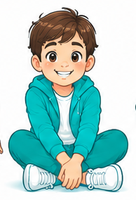
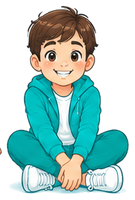
0311z: задание 6 — у человечков убран белый фон (футболка и кроссовки сохранены), карточки в три ряда по четыре и крупнее, название больше не обрезается

diff --git a/task06.css b/task06.css
@@ -32,11 +32,11 @@
 #t6 .t6-slot.filled{border-style:solid;border-color:rgba(48,229,220,.5);background:#14292f;cursor:pointer}
 #t6 .t6-slot.picked{border-color:#30e5dc;box-shadow:0 0 0 2px rgba(48,229,220,.45) inset}
 #t6 .t6-slot .t6-del{position:absolute;right:2px;top:1px;width:20px;height:20px;border:0;background:transparent;color:#9fd8d8;font-size:14px;line-height:1;font-family:inherit;cursor:pointer}
-#t6 .t6-cards{display:grid;grid-template-columns:repeat(6,minmax(0,1fr));gap:6px;width:min(96vw,820px);margin:0 auto;overflow-y:auto;flex:1 1 auto;align-content:start}
-#t6 .t6-card{display:flex;flex-direction:row;align-items:center;justify-content:flex-start;gap:8px;min-height:58px;padding:4px 8px;border:1px solid rgba(190,245,245,.3);border-radius:10px;background:#14292f;color:#fff;font-size:12.5px;font-weight:700;font-family:inherit;line-height:1.15;text-align:left;cursor:pointer}
-/* Человечек слева на белой плашке, название справа */
-#t6 .t6-pic{flex:0 0 auto;width:42px;height:42px;border-radius:10px;background:#fff;object-fit:contain;padding:1px;box-sizing:border-box}
-#t6 .t6-name{flex:1 1 auto;min-width:0}
+#t6 .t6-cards{display:grid;grid-template-columns:repeat(4,minmax(0,1fr));gap:7px;width:min(96vw,820px);margin:0 auto;overflow-y:auto;flex:1 1 auto;align-content:start}
+#t6 .t6-card{display:flex;flex-direction:row;align-items:center;justify-content:flex-start;gap:9px;min-height:62px;padding:4px 10px;border:1px solid rgba(190,245,245,.3);border-radius:10px;background:#14292f;color:#fff;font-size:13.5px;font-weight:700;font-family:inherit;line-height:1.2;text-align:left;cursor:pointer}
+/* Человечек слева (прозрачный фон), название справа */
+#t6 .t6-pic{flex:0 0 auto;width:46px;height:46px;object-fit:contain;background:transparent;padding:0;box-sizing:border-box}
+#t6 .t6-name{flex:1 1 auto;min-width:0;overflow-wrap:anywhere}
 #t6 .t6-card.taken{opacity:.35;cursor:default;border-style:dashed}
 #t6:not(.iscap) .t6-card{cursor:default}
 #t6 .t6-actions{position:absolute;left:50%;transform:translateX(-50%);bottom:calc(8px + env(safe-area-inset-bottom));z-index:6;display:flex;align-items:center;justify-content:center;gap:10px;flex-wrap:wrap;width:min(96vw,760px)}
@@ -73,8 +73,8 @@
 #t6 h1{font-size:20px}
 #t6 .t6-note{font-size:12.5px}
 #t6 .t6-slot{min-height:44px;font-size:11px}
-#t6 .t6-card{min-height:46px;font-size:11px;padding:2px 6px;gap:6px}
-#t6 .t6-pic{width:34px;height:34px;border-radius:8px}
+#t6 .t6-card{min-height:50px;font-size:11.5px;padding:2px 7px;gap:7px}
+#t6 .t6-pic{width:36px;height:36px}
 #t6 .t6-order{gap:4px;padding-top:calc(66px + env(safe-area-inset-top))}
 #t6 .t6-actions .t6-primary,#t6 .t6-actions .t6-replay-inline{min-height:40px;font-size:13px;padding:6px 14px}
 #t6 .t6-hint{font-size:11.5px;padding:5px 10px}

diff --git a/index.html b/index.html
@@ -9,7 +9,7 @@
 <link rel="stylesheet" href="task03.css?v=0311b">
 <link rel="stylesheet" href="task04.css?v=0311p">
 <link rel="stylesheet" href="task05.css?v=0311t">
-<link rel="stylesheet" href="task06.css?v=0311y">
+<link rel="stylesheet" href="task06.css?v=0311z">
 <script src="vendor/qrcode.min.js?v=0311f"></script>
 <style>
 .hidden{display:none!important}
@@ -93,7 +93,7 @@ body[data-screen="cinema"] #movie-title{top:78px}
 @media(max-width:740px){#t2 .t2-panel{width:92px;padding:6px;gap:6px}#t2 .t2-row{padding:8px 6px}#t2 .t2-row .shape{width:26px;height:26px;flex:0 0 26px}#t2 .t2-row .digit{font-size:20px}#t2 .t2-cell{width:40px;height:40px;font-size:20px}#t2 .t2-bottom.compact .t2-cell{width:30px;height:30px;font-size:14px}#t2 .t2-bottom{padding:8px 10px}#t2 .t2-hint{font-size:13px}}
 </style>
 </head>
-<body data-build="0311y">
+<body data-build="0311z">
 <div id="app">
 
 <header id="topbar">
@@ -255,8 +255,8 @@ body[data-screen="cinema"] #movie-title{top:78px}
 <script src="task03.js?v=0311r"></script>
 <script src="task04.js?v=0311s"></script>
 <script src="task05.js?v=0311t"></script>
-<script src="task06.js?v=0311y"></script>
-<script src="app.js?v=0311y"></script>
+<script src="task06.js?v=0311z"></script>
+<script src="app.js?v=0311z"></script>
 <script>
 // МОСТ: кнопка «Продолжить квест» у капитана и монтаж заданий 2 и 3.
 (function(){

diff --git a/task06.js b/task06.js
@@ -74,7 +74,7 @@ root=document.createElement('div');root.id='t6';root.innerHTML=
 '<section class="t6-screen t6-done" hidden><p class="t6-eyebrow">ЗАДАНИЕ 6 ЗАВЕРШЕНО</p><h1>Танец открыл путь</h1><p class="t6-final-word">ПОРТАЛ</p><p class="t6-note">Слово собрано из первых букв движений. Следующее задание появится в следующем обновлении.</p></section>'+
 '<div class="t6-status" id="t6-status" role="status" hidden></div>'+
 '<button class="t6-primary t6-mediabtn" id="t6-media" type="button" hidden></button>'+
-'<p class="t6-build">Сборка 0311y</p>';
+'<p class="t6-build">Сборка 0311z</p>';
 container.appendChild(root);
 video=root.querySelector('.t6-video');bg=root.querySelector('.t6-bg');
 els={wait:root.querySelector('.t6-wait'),start:root.querySelector('#t6-start'),waitnote:root.querySelector('#t6-waitnote'),
